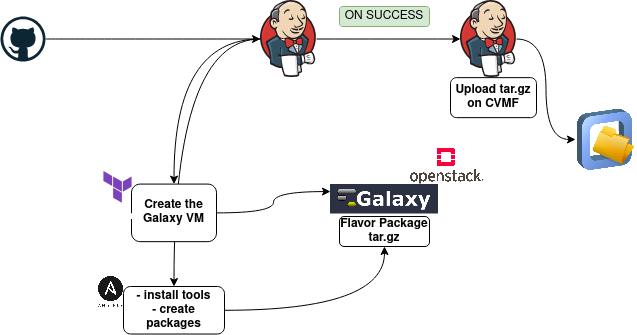
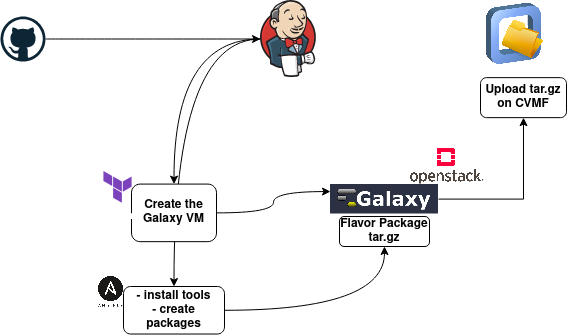
remove cvmfs pipeline from readme and graph

diff --git a/JNK-CI/README.md b/JNK-CI/README.md
@@ -12,13 +12,11 @@
 - Perform the packages creation by calling the playbook `dump.yml`
 - Upload the packeges on the Openstack object storage Swift  `swift_upload.yml`
 - Trigger CVMFS_JenkinsFile on success `CVMFS_JenkinsFile`
-
-## CVMFS_JenkinsFile
-
 - Upload the packages on the buffer volume of the CVMFS Stratum0 tools.elixir-italy-cvmfs
 - Open the CVMFS transaction
 - Publish the new data
 - Update the version
+
 
 ##  Pipeline Schema 
 ![plot](package_update.png)
